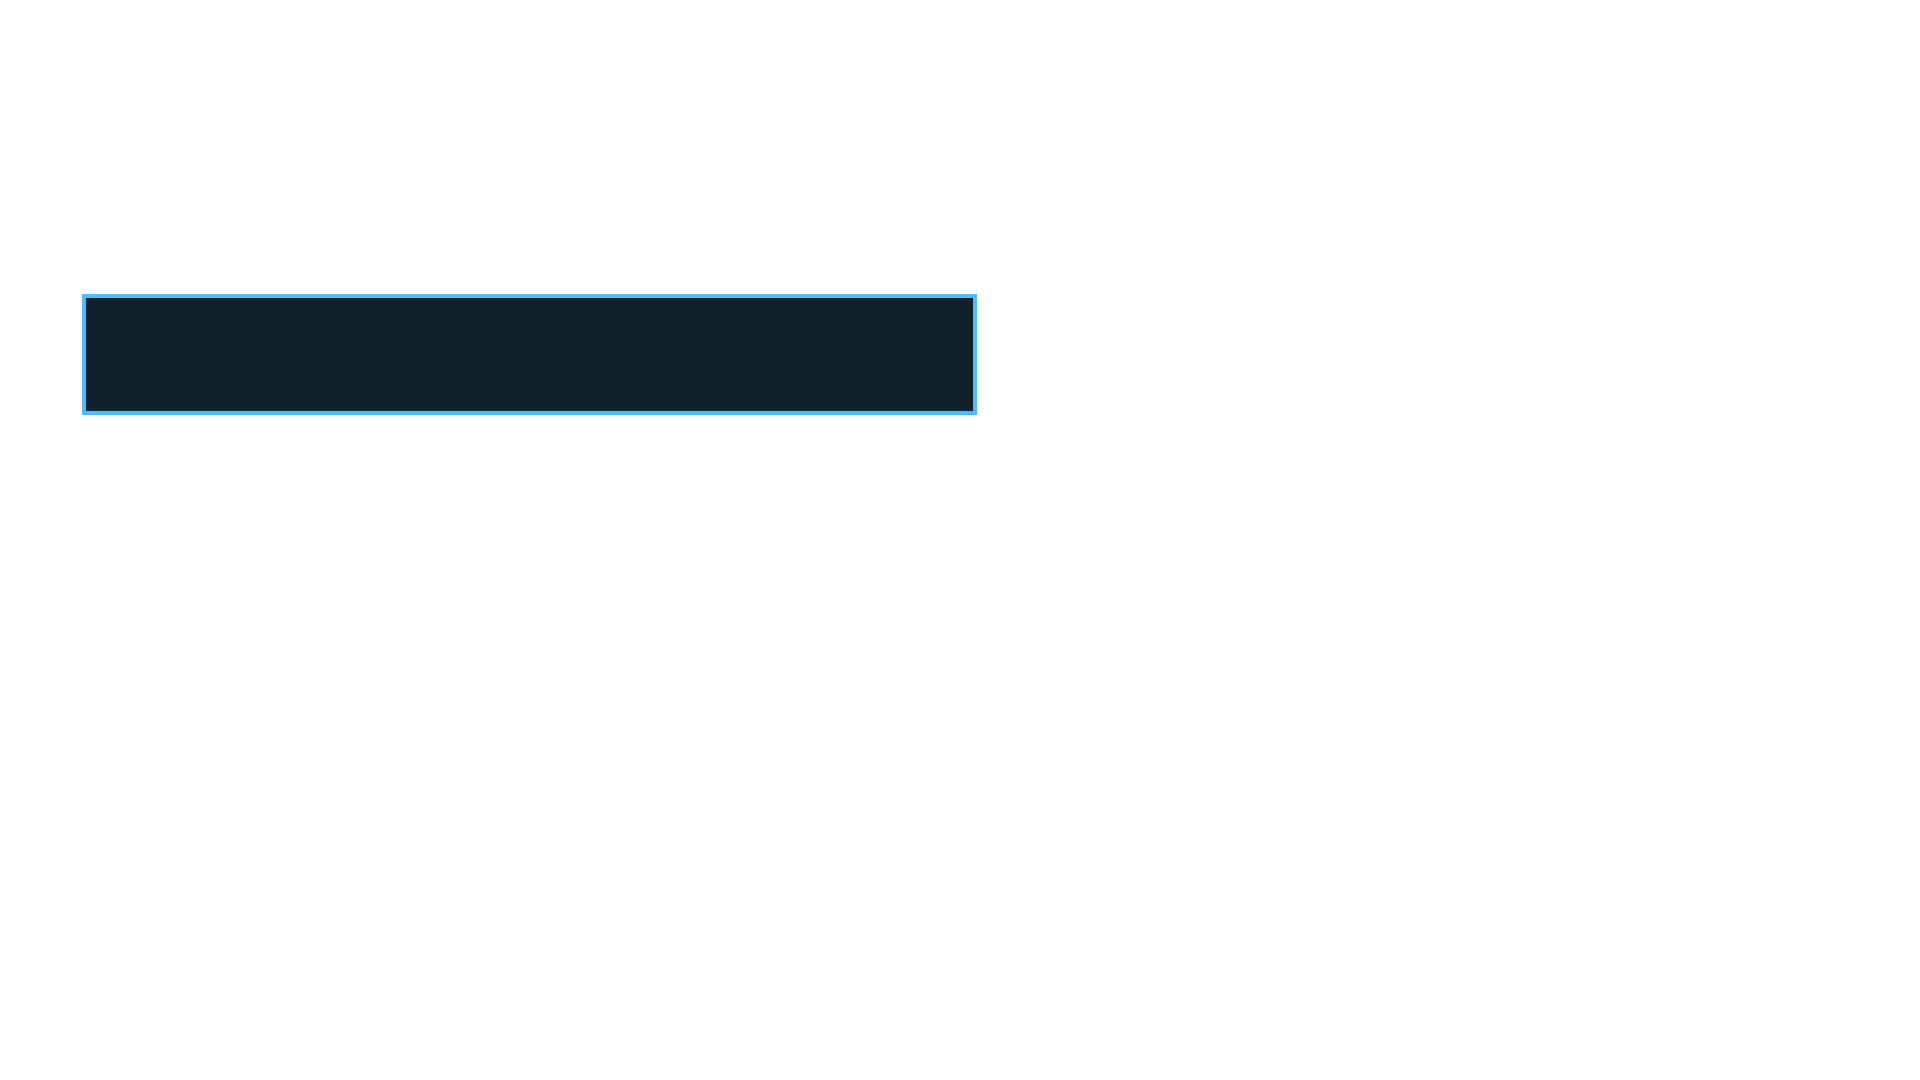
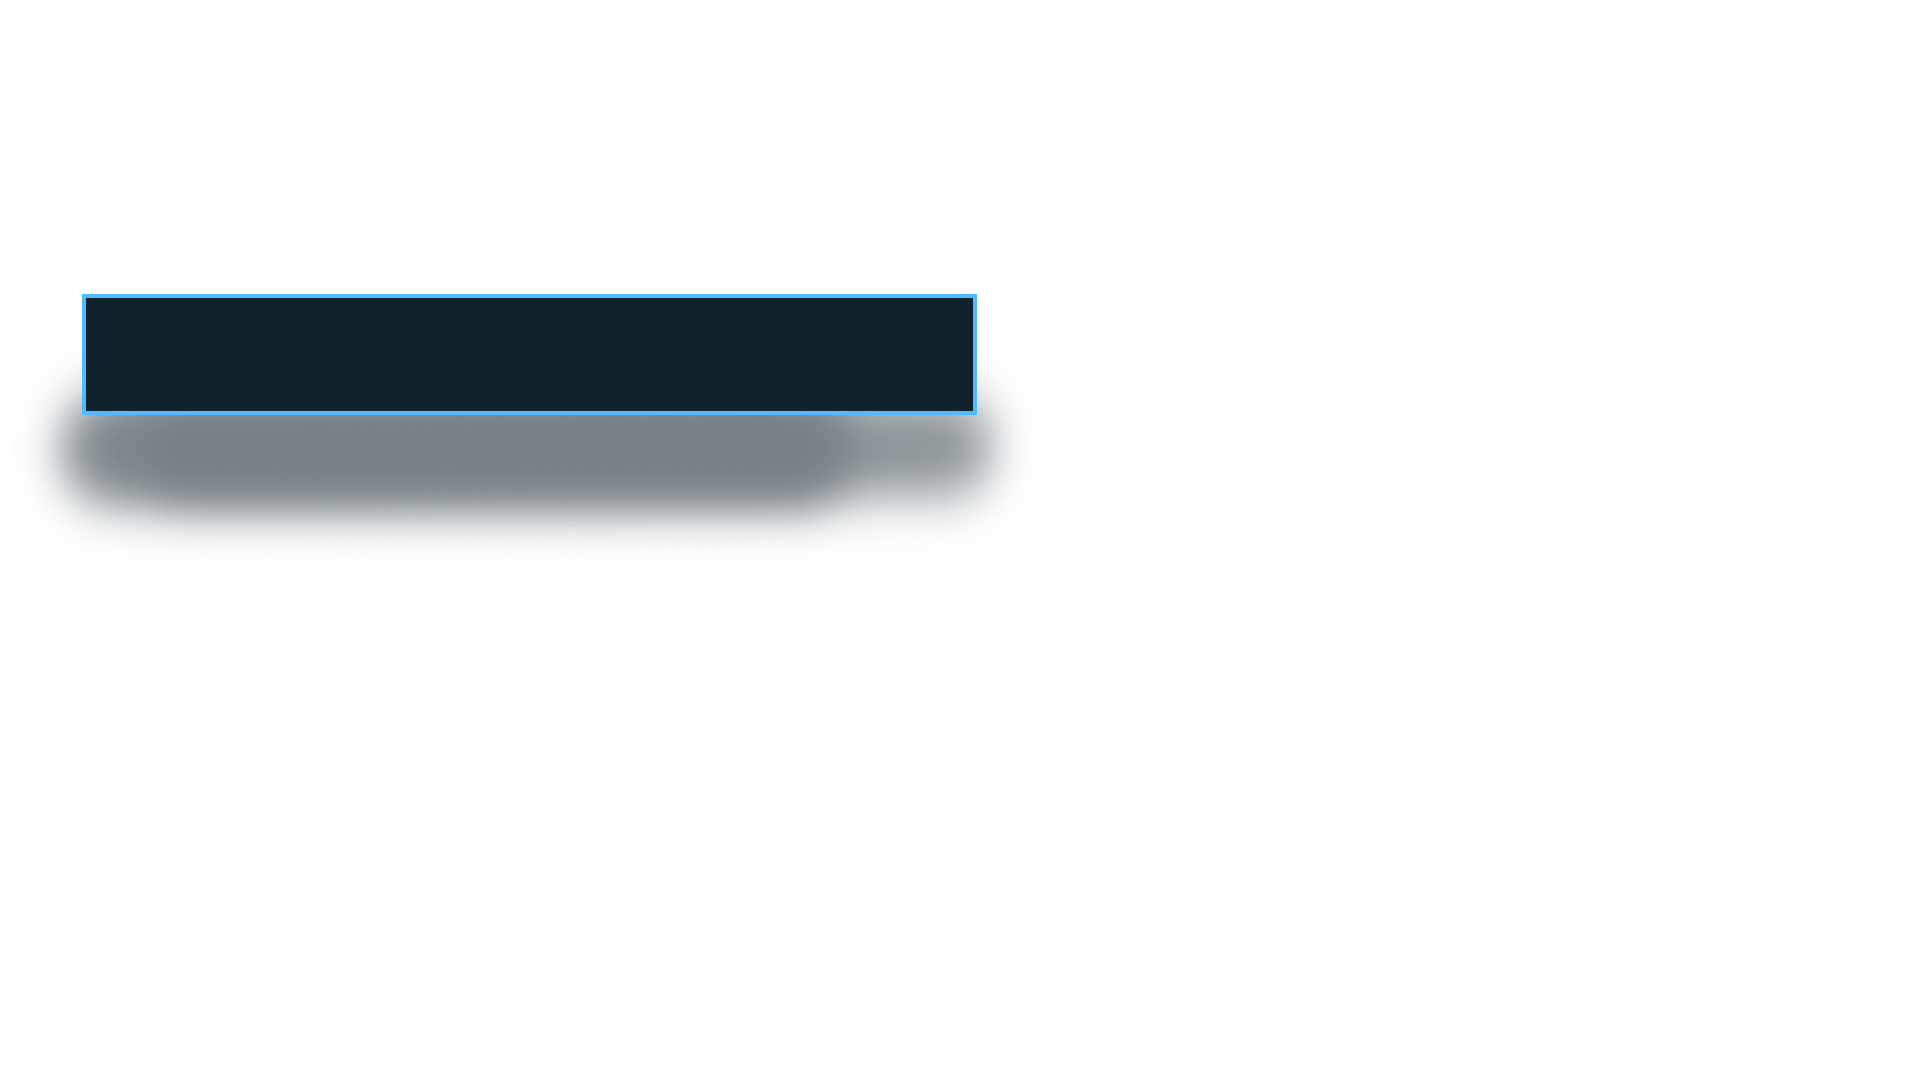
Update intermission graphics

Changed region(s): [[0.0, 0.3667, 0.5312, 0.5194]]

diff --git a/src/extension/layouts.ts b/src/extension/layouts.ts
@@ -81,14 +81,6 @@ nodecg.listenFor('nextRun', async (data, ack) => {
   obs.muteAudio();
   obs.unmuteAudio();
 
-  // 3 minutes of commercials
-  sendMessage('twitchStartCommercial', {
-    duration: 180,
-    fromDashboard: false,
-  }).catch((err) => {
-    nodecg.log.warn('[Twitch Ads] Failed to start intermission ads: ', err);
-  });
-
   if (ack && !ack.handled) {
     ack(null);
   }

diff --git a/src/graphics/intermission/main.vue b/src/graphics/intermission/main.vue
@@ -6,11 +6,6 @@
         v-if="type != 'END OF MARATHON'"
         src="./bgs/mediabox-logo.png"
       />
-      <img
-        class="bg"
-        v-if="type != 'END OF MARATHON'"
-        src="./bgs/intermissionnameblob.png"
-      />
       <template v-if="type != 'END OF MARATHON'">
         <transition name="fade" appear>
           <img
